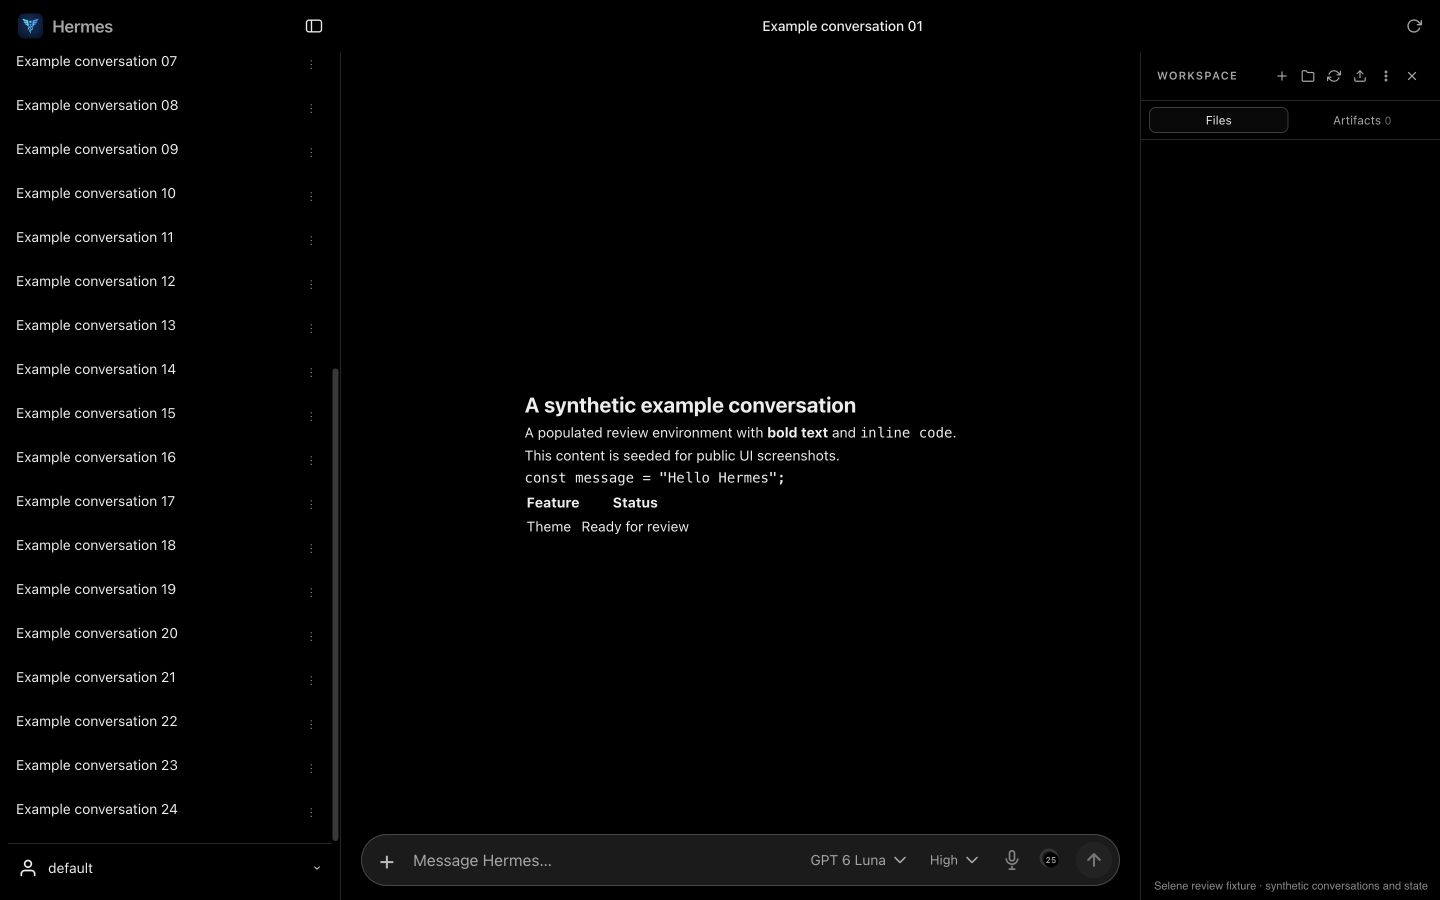
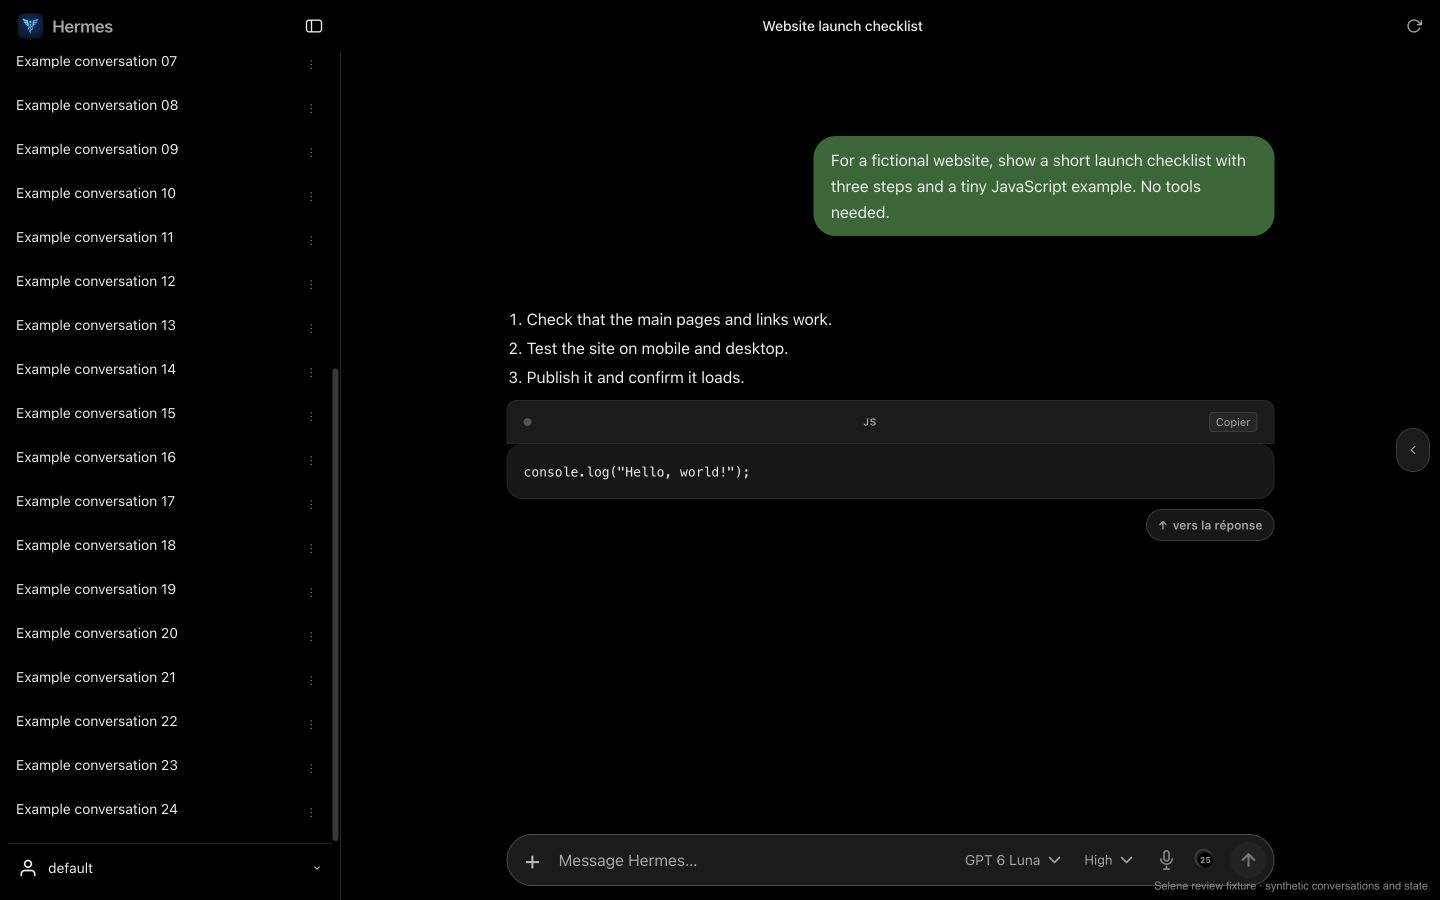
Show native conversation rendering in theme screenshots

diff --git a/docs/VALIDATION.md b/docs/VALIDATION.md
@@ -26,7 +26,7 @@ The native-composer fixture verified 4 px gaps between desktop model, visible re
 
 Testing used a browser viewport, not an exhaustive matrix of physical Android/iOS devices, software keyboards or installed PWA versions. Theme animation durations were compared visually and through computed styles; every native interaction and streaming state has not been measured. Hermes updates may require selector adjustments.
 
-Screenshots are captured from a neutral welcome screen or cropped navigation, without conversation history, credentials or installation-specific endpoints. They are UI evidence, not generated mockups.
+Main screenshots are captured from an intentionally created public demo conversation in the installed WebUI, with private sidebar history hidden. Navigation crops and synthetic review fixtures contain no private history, credentials or installation-specific endpoints. They are UI evidence, not generated mockups.
 
 ## Distribution checks
 
@@ -48,3 +48,7 @@ A populated local fixture used the installed `exp-v0.52.404` native template and
 Current upstream core master was independently tested by the maintainer on the previous PR head. This revision still requires their gates to be rerun; local fixture checks do not claim that those remote checks have passed.
 
 Installed follow-up: the real sidebar scroll area contained 10,024 px of content. Scrolling to 9,412.5 px left the profile footer at y=663 in a 720 px viewport. At 390 by 844, the footer stayed at y=783, the drawer measured 360 px and microphone/add targets measured 44 px. The native profile dropdown stayed inside the viewport; no profile was changed. No browser errors were recorded.
+
+## Conversation captures (1.1.2)
+
+The public demo was sent through the actual installed Hermes chat UI and renamed through the native header interaction. Desktop Light/Dark and 390 px mobile Light/Dark show its native user/assistant rows, numbered checklist, JavaScript block and message actions. No application tools were needed for the demo response. Review fixtures reuse this benign native message markup while sidebar data, context/quota and dictation remain seeded or simulated. Welcome captures are intentionally empty. The original Dark mode and open desktop sidebar preferences were restored after capture. No runtime assets changed in this release.

diff --git a/README.md b/README.md
@@ -2,18 +2,20 @@
 
 Selene is a **ChatGPT-inspired theme for [Hermes WebUI](https://github.com/nesquena/hermes-webui)**, bringing a familiar ChatGPT-style interface to Hermes Agent on desktop and mobile. It combines light and dark themes, responsive chat controls and a cleaner sidebar while keeping its own name and Hermes branding.
 
-![Selene on desktop in dark mode](screenshots/desktop-dark.png)
+![Selene conversation on desktop in dark mode](screenshots/desktop-dark.png)
 
 <p>
-  <img src="screenshots/mobile-dark.png" alt="Selene on mobile in dark mode" width="270">
+  <img src="screenshots/mobile-dark.png" alt="Selene conversation on mobile in dark mode" width="270">
   <img src="screenshots/sidebar-dark.png" alt="Indented Explore Hermes navigation" width="260">
 </p>
 
-![Selene on desktop in light mode](screenshots/desktop-light.png)
+![Selene conversation on desktop in light mode](screenshots/desktop-light.png)
 
 ## ChatGPT-style appearance, native Hermes features
 
 For users looking for a Hermes WebUI theme that looks like ChatGPT, Selene adapts the spacing, typography, composer, menus and motion. It preserves Hermes' native model, reasoning, profile and tool controls. Install it as a custom theme extension without forking Hermes or building a custom image.
+
+The main screenshots show a real Hermes-rendered demo conversation about a fictional website: a user bubble, assistant checklist, JavaScript code and native message actions. [Mobile Light](screenshots/mobile-light.png) shows the same conversation in the other palette. Private history is hidden.
 
 ## What changes
 

diff --git a/screenshots/review/README.md b/screenshots/review/README.md
@@ -1,6 +1,6 @@
 # Review screenshots
 
-These browser captures use the installed Hermes WebUI template and stylesheet in a local fixture with 24 synthetic conversations. Context/quota, attachments, conversation actions and dictation states are seeded or simulated; they do not contain private data and are not proof of STT or backend service operation.
+These browser captures use the installed Hermes WebUI template and stylesheet in a local fixture with 24 synthetic sidebar conversations. Populated chat views reuse the native user/assistant message markup from the public website-launch demo, including a numbered checklist and JavaScript block. Context/quota, attachments, conversation actions and dictation states are seeded or simulated; they do not contain private data and are not proof of STT or backend service operation.
 
 - [Collapsed desktop, dark](desktop-collapsed-dark.png) and [light](desktop-collapsed-light.png)
 - [Pinned desktop profile after scrolling](desktop-profile-pinned.png) and [mobile](mobile-profile-pinned.png)

diff --git a/CHANGELOG.md b/CHANGELOG.md
@@ -1,5 +1,10 @@
 # Changelog
 
+## 1.1.2 — 2026-10-07
+
+- Replace the main desktop/mobile screenshots with a real rendered demo conversation, including user/assistant messages, a checklist and code.
+- Add Mobile Light and refresh populated review captures with native message markup. Runtime JavaScript and CSS are unchanged.
+
 ## 1.1.1 — 2026-10-07
 
 - Apply the 44 px mobile minimum to the pinned profile button and add-menu rows as well as the composer controls.
